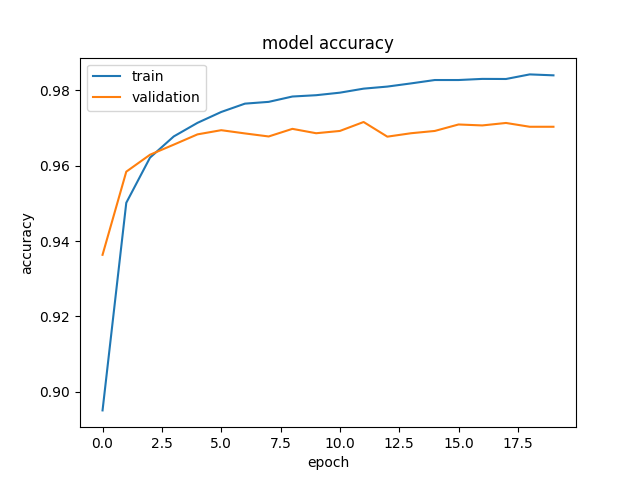
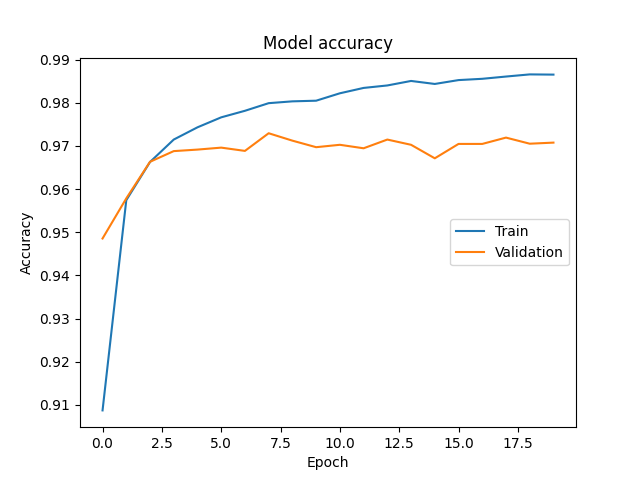
Fixed plots.

diff --git a/Code/Python/gen-weights.py b/Code/Python/gen-weights.py
@@ -69,14 +69,14 @@ def prep_pixels(train, test) -> tuple:
 def define_model() -> Sequential:
 	# Define model.
 	model = Sequential()
-	model.add(ZeroPadding2D(padding=1, input_shape=(input_size[0], input_size[1], 1)))
-	model.add(Conv2D(conv_1_filter_num, conv_1_kernel_size, activation='relu', padding='valid', kernel_initializer='he_uniform', input_shape=(30, 30, 1)))
+	model.add(ZeroPadding2D(padding=1, input_shape=(input_size[0], input_size[1], 1), name='zero_padding2d_layer'))
+	model.add(Conv2D(conv_1_filter_num, conv_1_kernel_size, activation='relu', padding='valid', kernel_initializer='he_uniform', input_shape=(30, 30, 1), name='conv2d_layer'))
 	#model.add(BatchNormalization())
-	model.add(MaxPooling2D(pool_1_size))
-	model.add(Flatten())
+	model.add(MaxPooling2D(pool_1_size, name='max_pooling2d_layer'))
+	model.add(Flatten(name='flatten_layer'))
 	#model.add(Dense(100, activation='relu', kernel_initializer='he_uniform'))
 	#model.add(BatchNormalization())
-	model.add(Dense(10, activation='softmax'))
+	model.add(Dense(10, activation='softmax', name='dense_layer'))
 	# Compile model.
 	opt = SGD(learning_rate=0.01, momentum=0.9)
 	model.compile(optimizer=opt, loss='categorical_crossentropy', metrics=['accuracy'])
@@ -86,19 +86,19 @@ def plot_history(history: dict) -> None:
 	# Summarize history for accuracy.
 	plt.plot(history.history['accuracy'])
 	plt.plot(history.history['val_accuracy'])
-	plt.title('model accuracy')
-	plt.ylabel('accuracy')
-	plt.xlabel('epoch')
-	plt.legend(['train', 'validation'], loc='upper left')
+	plt.title('Model accuracy')
+	plt.ylabel('Accuracy')
+	plt.xlabel('Epoch')
+	plt.legend(['Train', 'Validation'], loc='center right')
 	plt.savefig('history_accuracy.png')
 	# Summarize history for loss.
 	plt.cla()
 	plt.plot(history.history['loss'])
 	plt.plot(history.history['val_loss'])
-	plt.title('model loss')
-	plt.ylabel('loss')
-	plt.xlabel('epoch')
-	plt.legend(['train', 'validation'], loc='upper left')
+	plt.title('Model loss')
+	plt.ylabel('Loss')
+	plt.xlabel('Epoch')
+	plt.legend(['Train', 'Validation'], loc='center right')
 	plt.savefig('history_loss.png')
 
 
